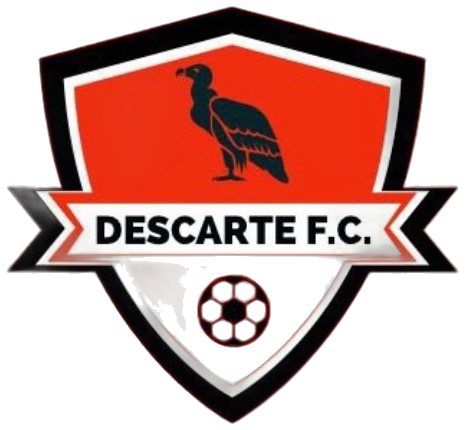
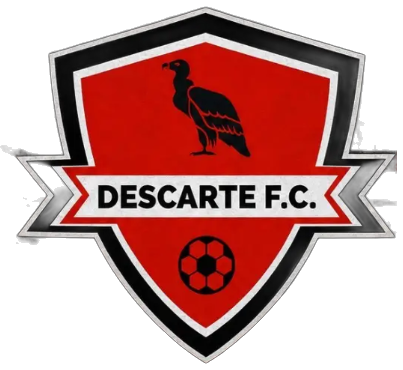
Escudos nuevos sin fondo: Al Costado y Descarte
Claude-Session: https://claude.ai/code/session_01PiaenGnF26zdi52QLa4LrN

diff --git a/index.html b/index.html
@@ -19,7 +19,7 @@
   <link rel="icon" type="image/png" href="public/logo_liga.png">
 
   <!-- Estilos Premium -->
-  <link rel="stylesheet" href="css/styles.css?v=20261030_b6">
+  <link rel="stylesheet" href="css/styles.css?v=20261030_b7">
 </head>
 
 <body>
@@ -206,10 +206,10 @@
   </footer>
 
   <!-- Scripts: Datos Oficiales y Lógica Reactiva -->
-  <script src="js/data.js?v=20261030_b6"></script>
-  <script src="js/data_b.js?v=20261030_b6"></script>
-  <script src="js/data_bc.js?v=20261030_b6"></script>
-  <script src="js/app.js?v=20261030_b6"></script>
+  <script src="js/data.js?v=20261030_b7"></script>
+  <script src="js/data_b.js?v=20261030_b7"></script>
+  <script src="js/data_bc.js?v=20261030_b7"></script>
+  <script src="js/app.js?v=20261030_b7"></script>
 </body>
 
 </html>

diff --git a/js/data_b.js b/js/data_b.js
@@ -36,7 +36,7 @@
       "id": "al_costado",
       "nombre": "Al Costado",
       "slug": "al_costado",
-      "escudo": "public/escudos/al_costado.png",
+      "escudo": "public/escudos/al_costado.png?v=3",
       "zonaApertura": "B",
       "zonaClausura": "B",
       "color": "#22814D",
@@ -80,7 +80,7 @@
       "id": "descarte",
       "nombre": "Descarte",
       "slug": "descarte",
-      "escudo": "public/escudos/descarte.png?v=2",
+      "escudo": "public/escudos/descarte.png?v=3",
       "zonaApertura": "A",
       "zonaClausura": "B",
       "color": "#22814D",

diff --git a/js/data.js b/js/data.js
@@ -2644,7 +2644,7 @@ const LIGA_DATA = {
       "F90": "public/escudos/f90.png",
       "Newcauce": "public/escudos/newcauce.png",
       "Geología": "public/escudos/geologia.png",
-      "Al Costado": "public/escudos/al_costado.png",
+      "Al Costado": "public/escudos/al_costado.png?v=3",
       "De Zurda": "public/escudos/de_zurda.png",
       "Necaxa": "public/escudos/necaxa.png?v=2",
       "Dep. La Verna": "public/escudos/dep_la_verna.png?v=2",
